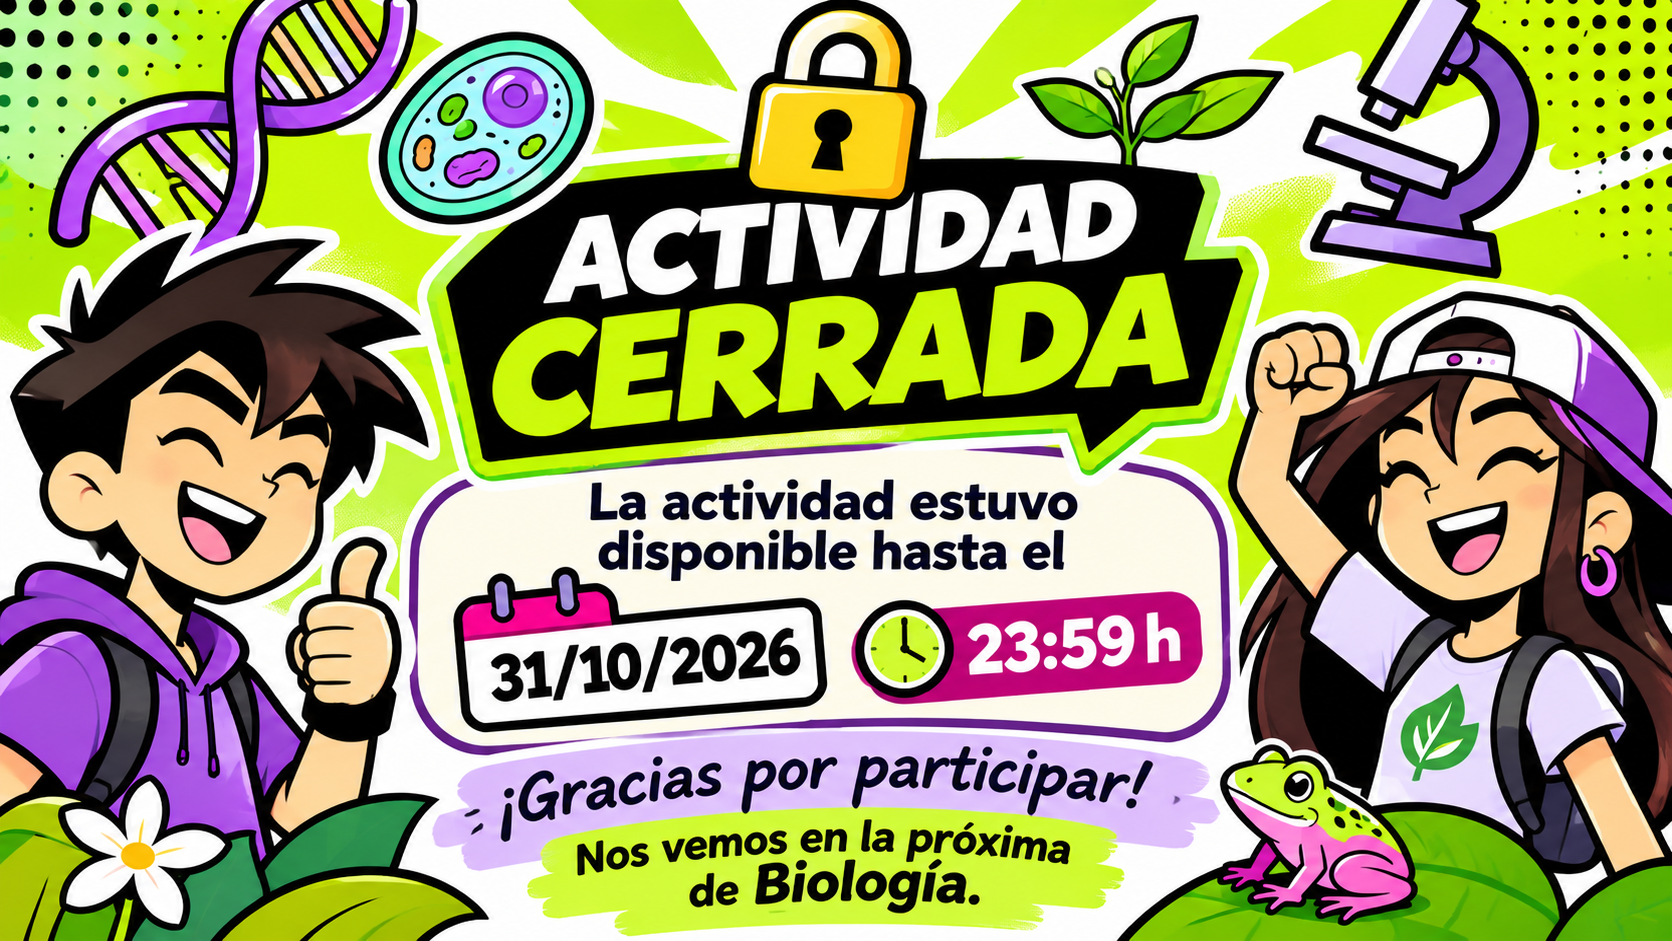
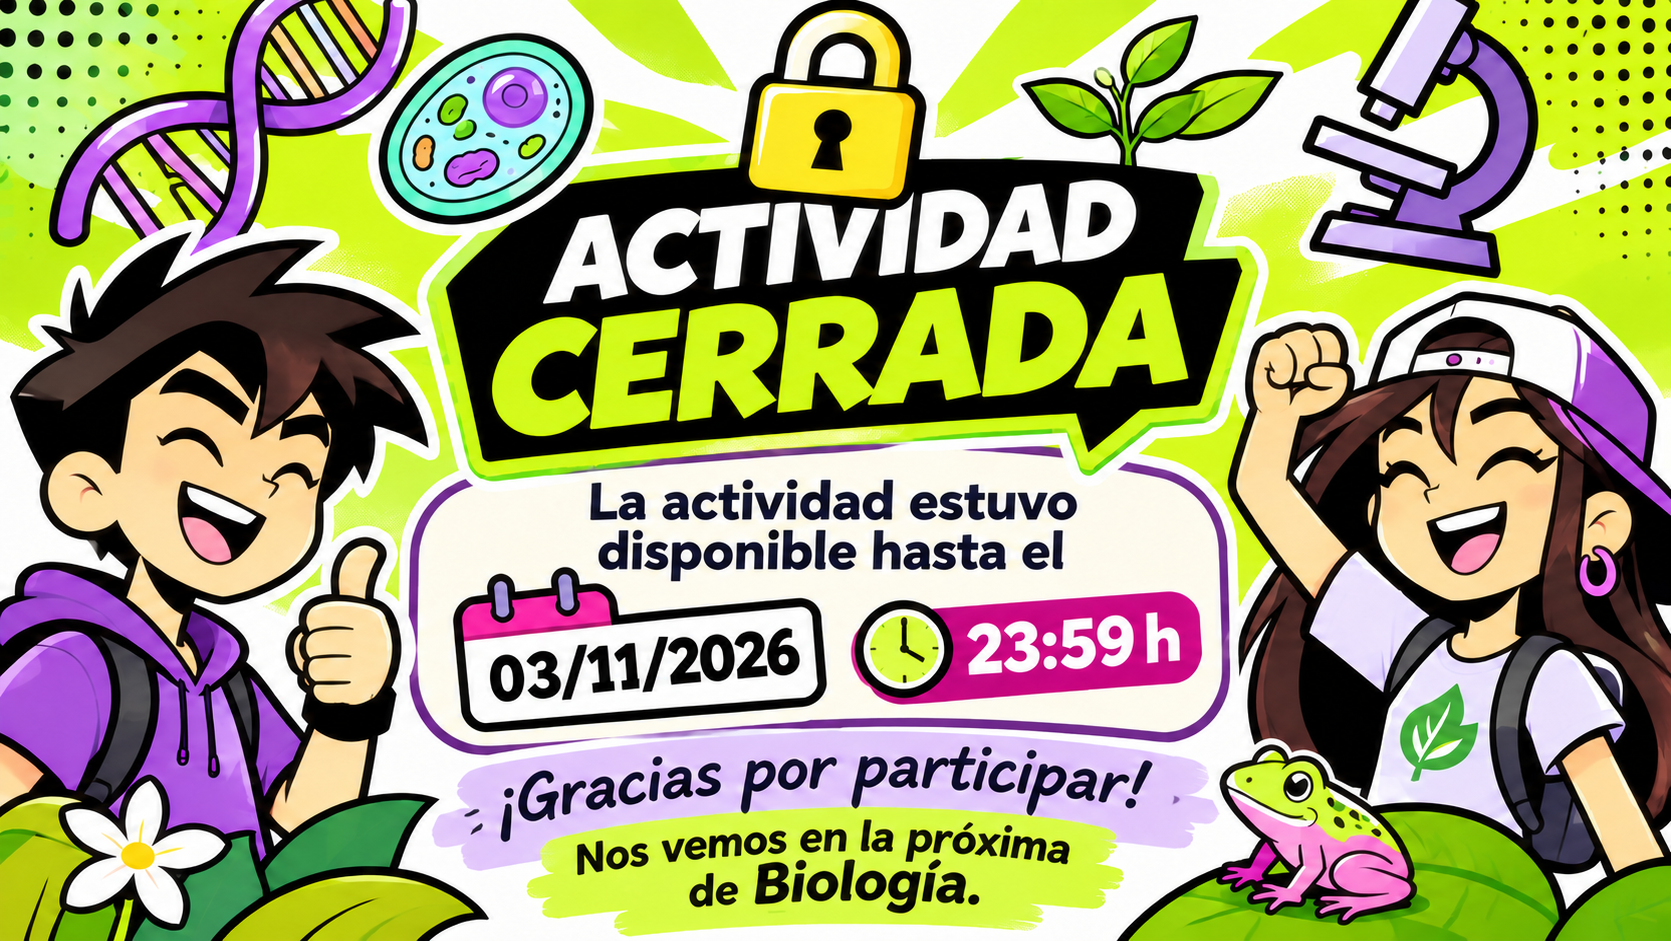
Extiende el plazo de la actividad hasta el 03/11/2026 23:59 (hora Argentina)

diff --git a/index.html b/index.html
@@ -1,10 +1,10 @@
 <!DOCTYPE html>
 <html lang="es">
 <head>
-<!-- AVISO ACTIVIDAD CERRADA — desde el 31/10/2026 23:59 h (hora de Argentina, UTC-3) -->
+<!-- AVISO ACTIVIDAD CERRADA — desde el 03/11/2026 23:59 h (hora de Argentina, UTC-3) -->
 <script>
 (function () {
-  var LIMITE = Date.parse('2026-10-31T23:59:59-03:00');
+  var LIMITE = Date.parse('2026-11-03T23:59:59-03:00');
   function intentarAudio(a) {
     try { var p = a.play(); if (p && p.catch) p.catch(function () {}); } catch (e) {}
   }
@@ -25,7 +25,7 @@
       var d = document.createElement('div'); d.id = 'aviso-cerrada';
       var i = new Image();
       i.src = 'aviso-cerrada.png';
-      i.alt = 'Actividad cerrada: estuvo disponible hasta el 31/10/2026 a las 23:59 h';
+      i.alt = 'Actividad cerrada: estuvo disponible hasta el 03/11/2026 a las 23:59 h';
       var b = document.createElement('button'); b.type = 'button';
       b.textContent = '\u25B6 Escuchar el mensaje';
       var a = document.createElement('audio');
